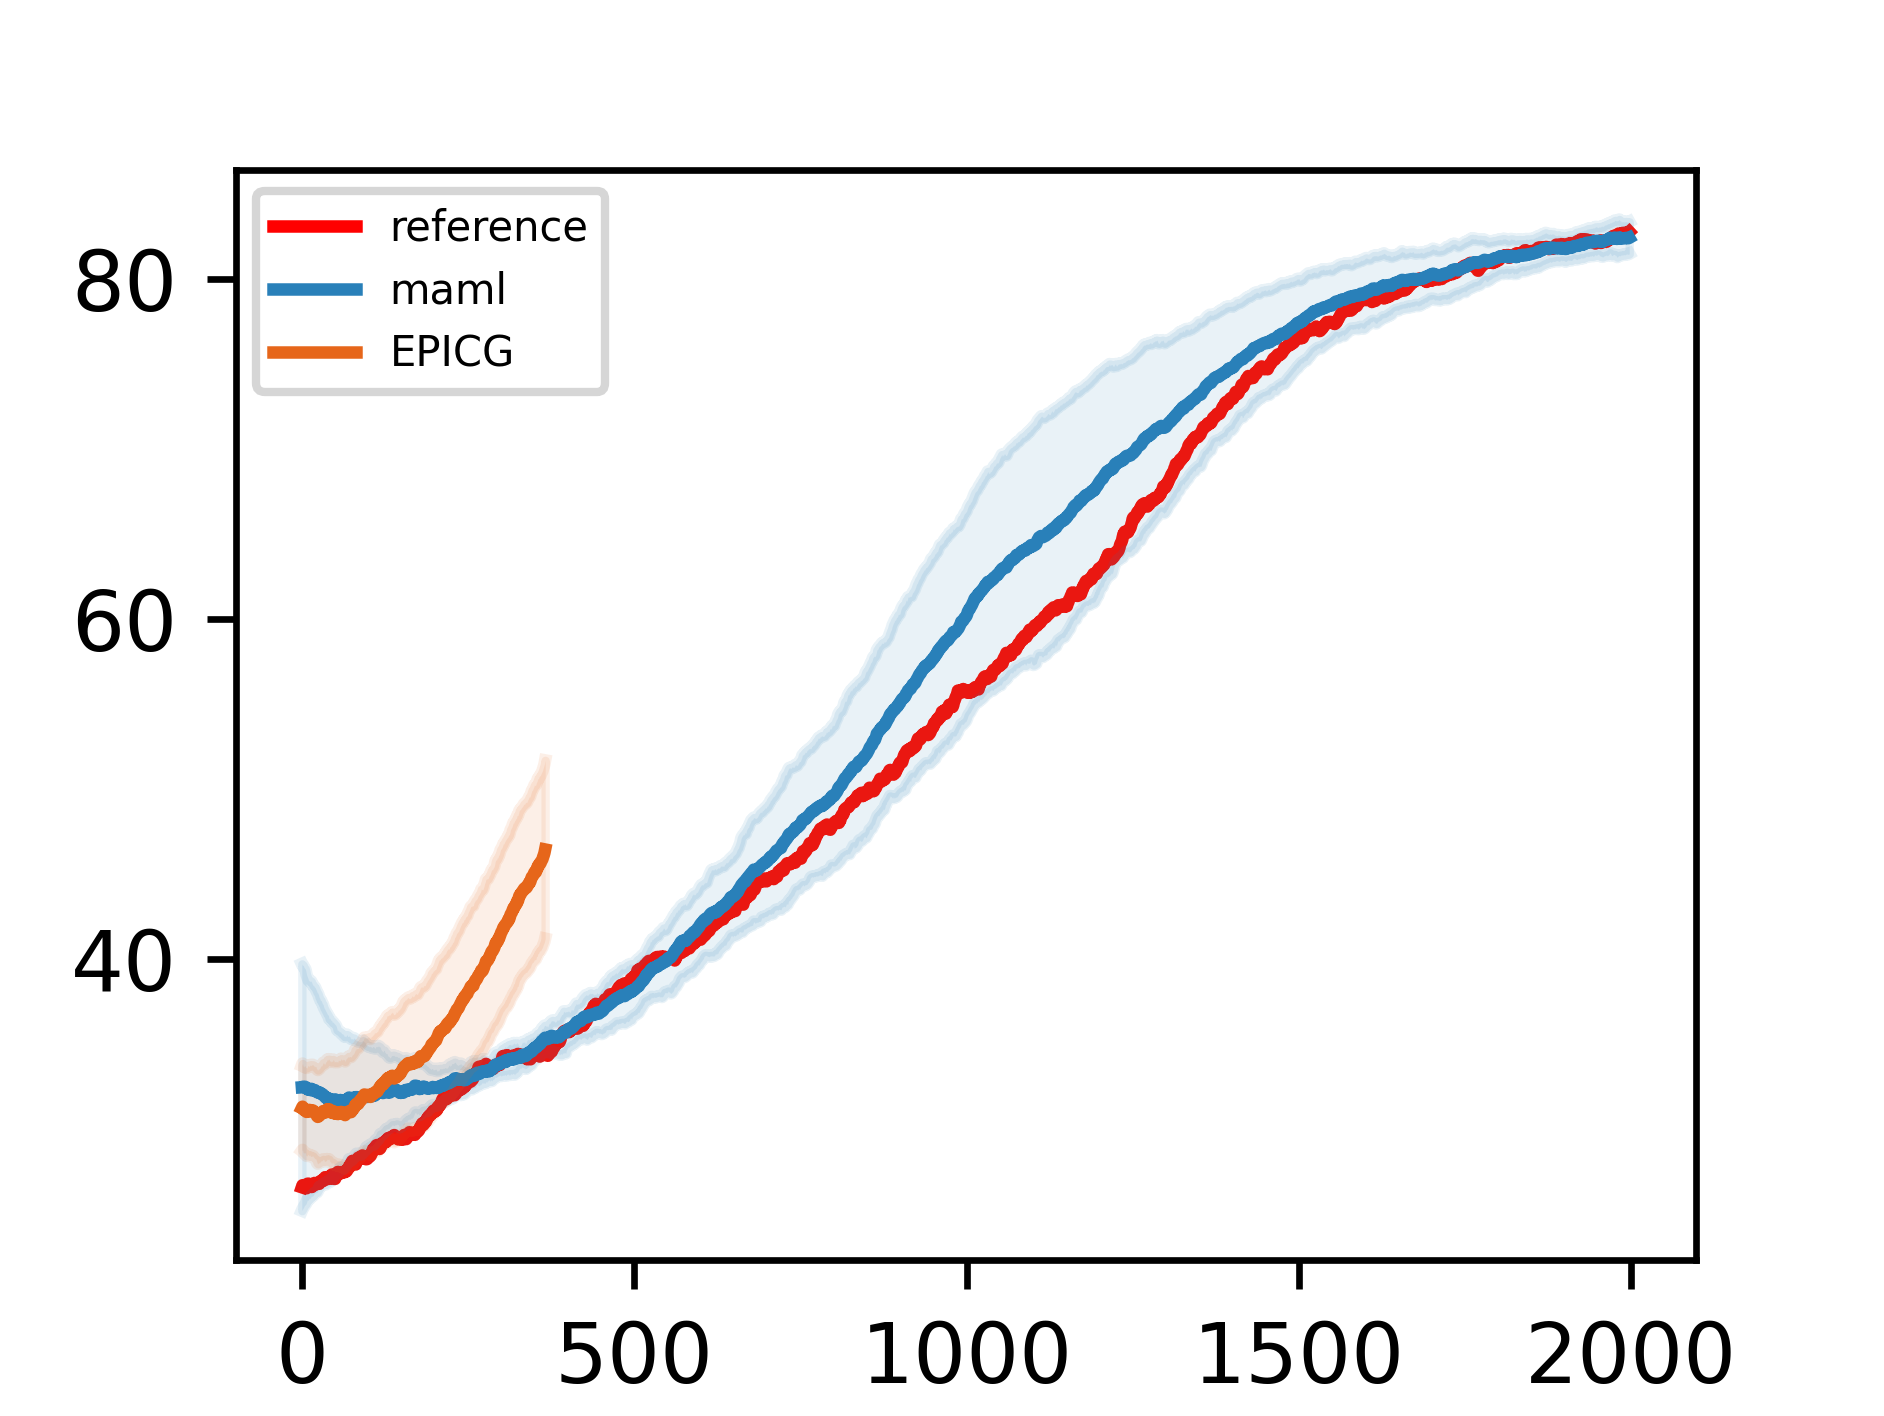
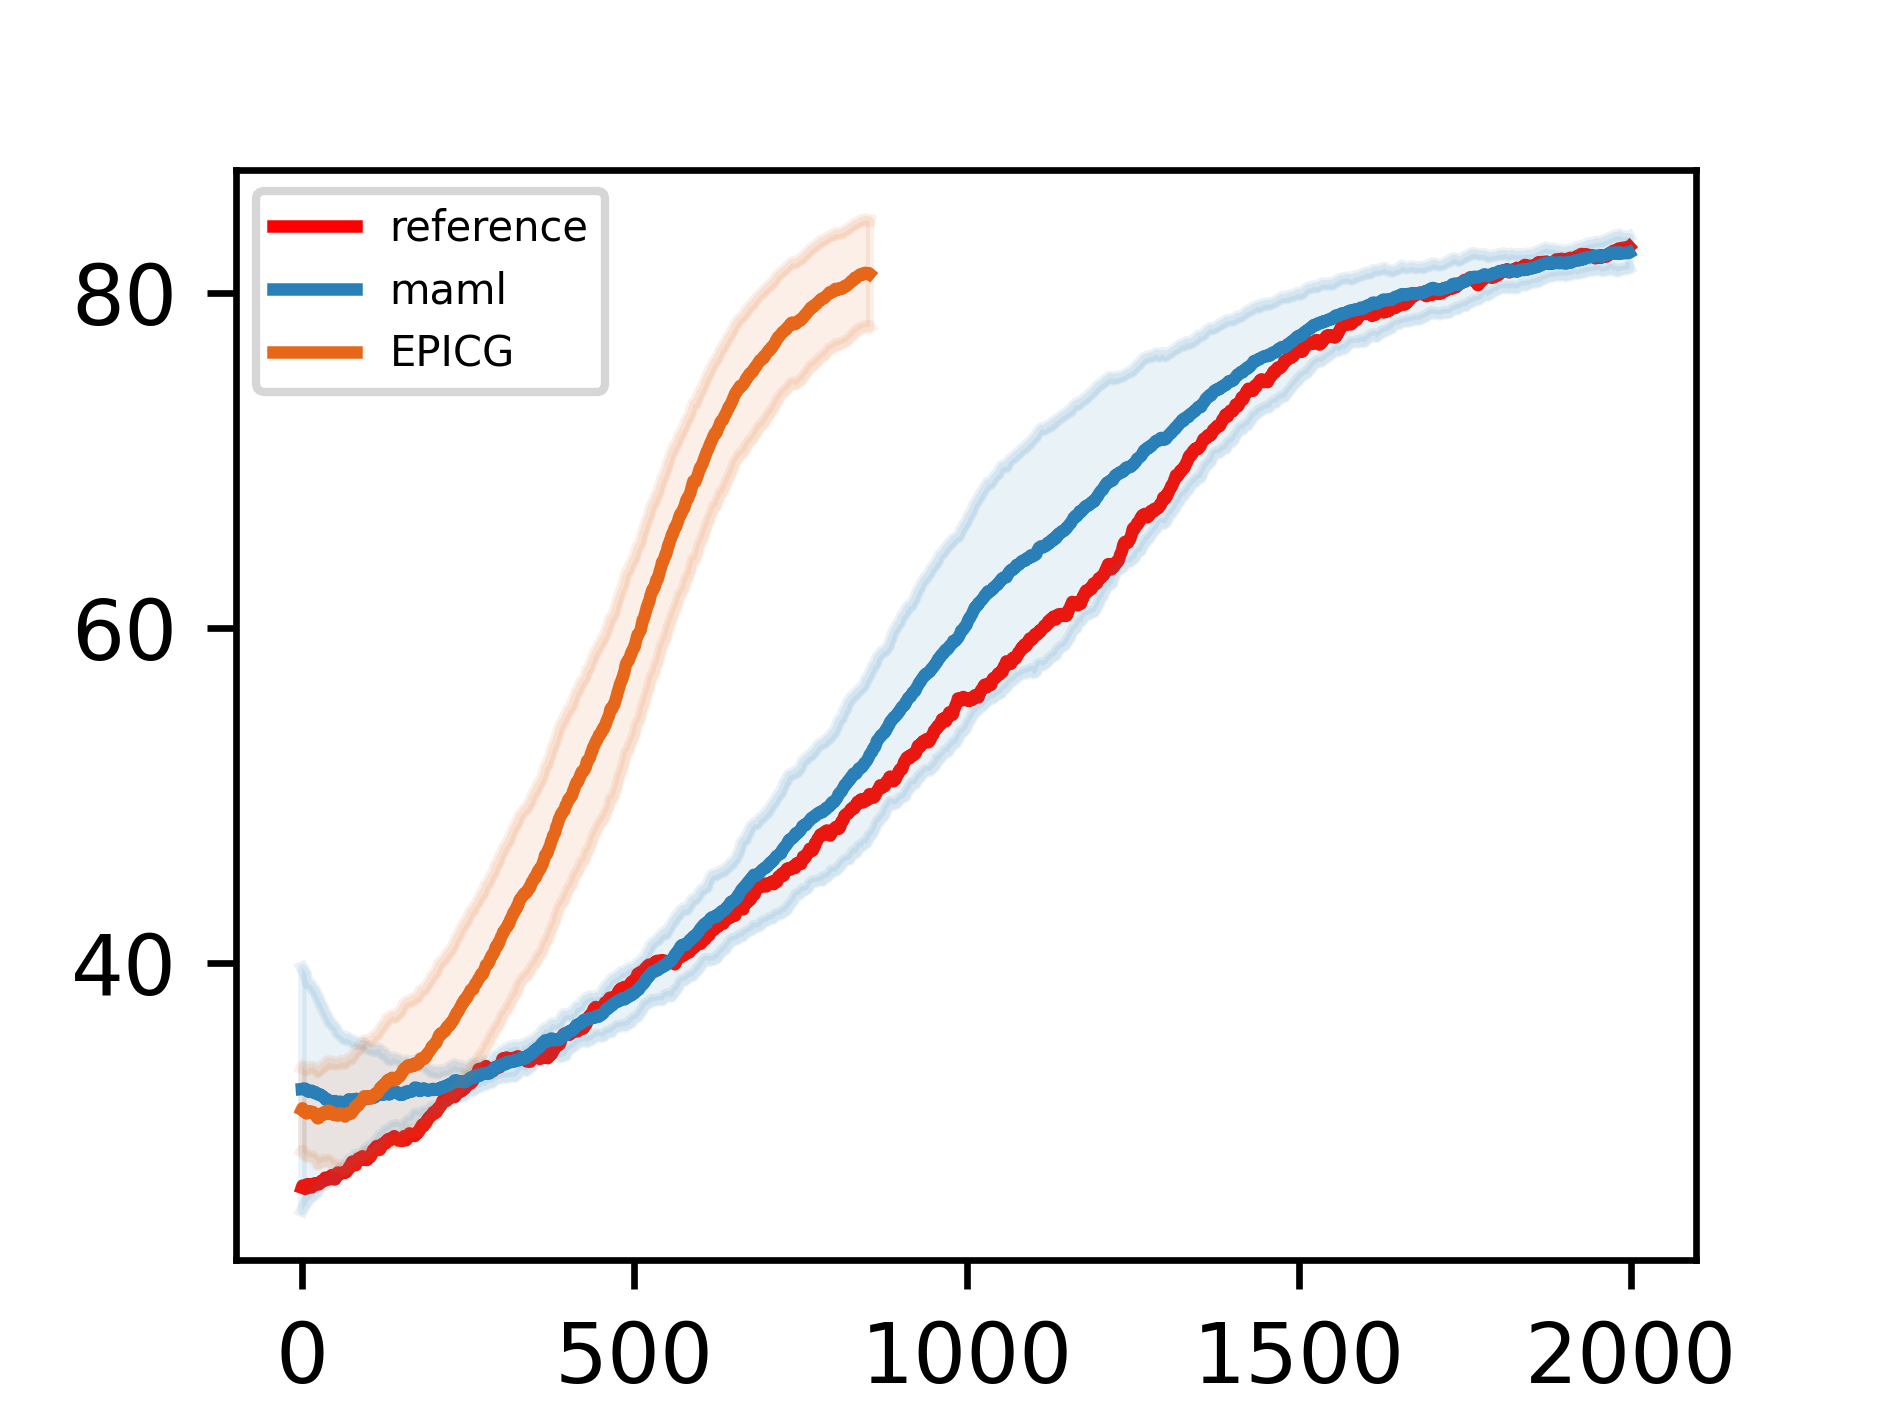
new

diff --git a/plot_test.py b/plot_test.py
@@ -169,15 +169,22 @@ def run_mc_compare_maml_plot():
         b = rgb_3[j]
         colors[i] = (r,g,b)
     steps = 100
-    subfolder = 'step100_2'
+    subfolder = 'step100_5'
     name = 'maml'
-    gradient = '2ave'
+    gradient = '1_35ave'
     mc_max = 10
     mc_compare = {}
     run_mc_key = False
+    dynamics='multimodal'
+    # dynamics='uniform'
+    mass = 5.0
+    goal = 0.5
+    if dynamics == 'uniform':
+        mass = 10.0
+        goal=0.0
     if run_mc_key:
         for m in ms[2:]:
-            fname = './results/montecarlo/{}/multimodal/EPIC_CartPole-v0_vpg_s2000_n10_every25_size32_c0.5_tau0.5_goal10.0_steps{}_mass5.0_mc{}'.format(subfolder,steps, m)
+            fname = './results/montecarlo/{}/{}/EPIC_CartPole-v0_vpg_s2000_n10_every25_size32_c0.5_tau0.5_goal10.0_steps{}_mass{}_mc{}'.format(subfolder,dynamics,steps,mass, m)
             epic_mean_std = read_rewards_multi_mc(filename=fname,
                                                     samples=2000,
                                                     runs=1)
@@ -203,8 +210,13 @@ def run_mc_compare_maml_plot():
             ax.plot(x_vals, epic_mean-epic_std,  alpha=0.1)
             ax.fill_between(x_vals, y1=epic_mean-epic_std, y2=epic_mean+epic_std, alpha=0.1)
         
-        # add the MAMLs 
-        maml_mean, maml_std = read_rewards_multi(filename='./results_maml/multimodal/maml_CartPole-v0_vpg_s2000_n10_every50_size32_goal0.5_steps{}_mass5.0'.format(steps),
+        # add the MAMLs
+        N = 50 
+        if dynamics == 'uniform':
+            mass = 10.0
+            goal=0.0
+            N = 5
+        maml_mean, maml_std = read_rewards_multi(filename='./results_maml/{}/maml_CartPole-v0_vpg_s2000_n10_every{}_size32_goal{}_steps{}_mass{}'.format(dynamics,N,goal,steps,mass),
                                              samples=2000,
                                              episodes=10,
                                              runs=4)
@@ -218,7 +230,7 @@ def run_mc_compare_maml_plot():
 
         for m in ms_sep:
             if m == mc_max:
-                fname = './results/montecarlo/{}/multimodal/EPIC_CartPole-v0_vpg_s2000_n10_every25_size32_c0.5_tau0.5_goal10.0_steps{}_mass5.0_mc{}'.format(subfolder,steps, m)
+                fname = './results/montecarlo/{}/{}/EPIC_CartPole-v0_vpg_s2000_n10_every25_size32_c0.5_tau0.5_goal10.0_steps{}_mass{}_mc{}'.format(subfolder,dynamics,steps, mass,m)
                 epic_mean_std = read_rewards_multi_mc(filename=fname,
                                                     samples=2000,
                                                     runs=1)
@@ -234,7 +246,7 @@ def run_mc_compare_maml_plot():
         # plt.yticks([-15, -10, -5, 0])
         # plt.tick_params(labelbottom=False, labelleft=False)
         # plt.show()
-        plt.savefig('./results/montecarlo/{}/multimodal/step{}_epic25_episodes_nosingle_mc_maml_compare_{}_{}'.format(subfolder, steps, name, gradient))
+        plt.savefig('./results/montecarlo/{}/{}/step{}_epic25_episodes_nosingle_mc_maml_compare_{}_{}'.format(subfolder, dynamics,steps, name, gradient))
 
 
 def run_ablation():

diff --git a/algos/agents/gaussian_vpg_mc.py b/algos/agents/gaussian_vpg_mc.py
@@ -382,7 +382,7 @@ class GaussianVPGMC(nn.Module):
                     v[key]+=policy_m_para_after[key] - policy_m_para_before[key]
             
         for key, meta_para in zip(v, self.new_default_policy.parameters()):
-            meta_para.data.copy_(meta_para.data + 1.35*v[key]/self.m)
+            meta_para.data.copy_(meta_para.data + 1.4*v[key]/self.m)
        
 
     def update_default_and_prior_policy(self):
